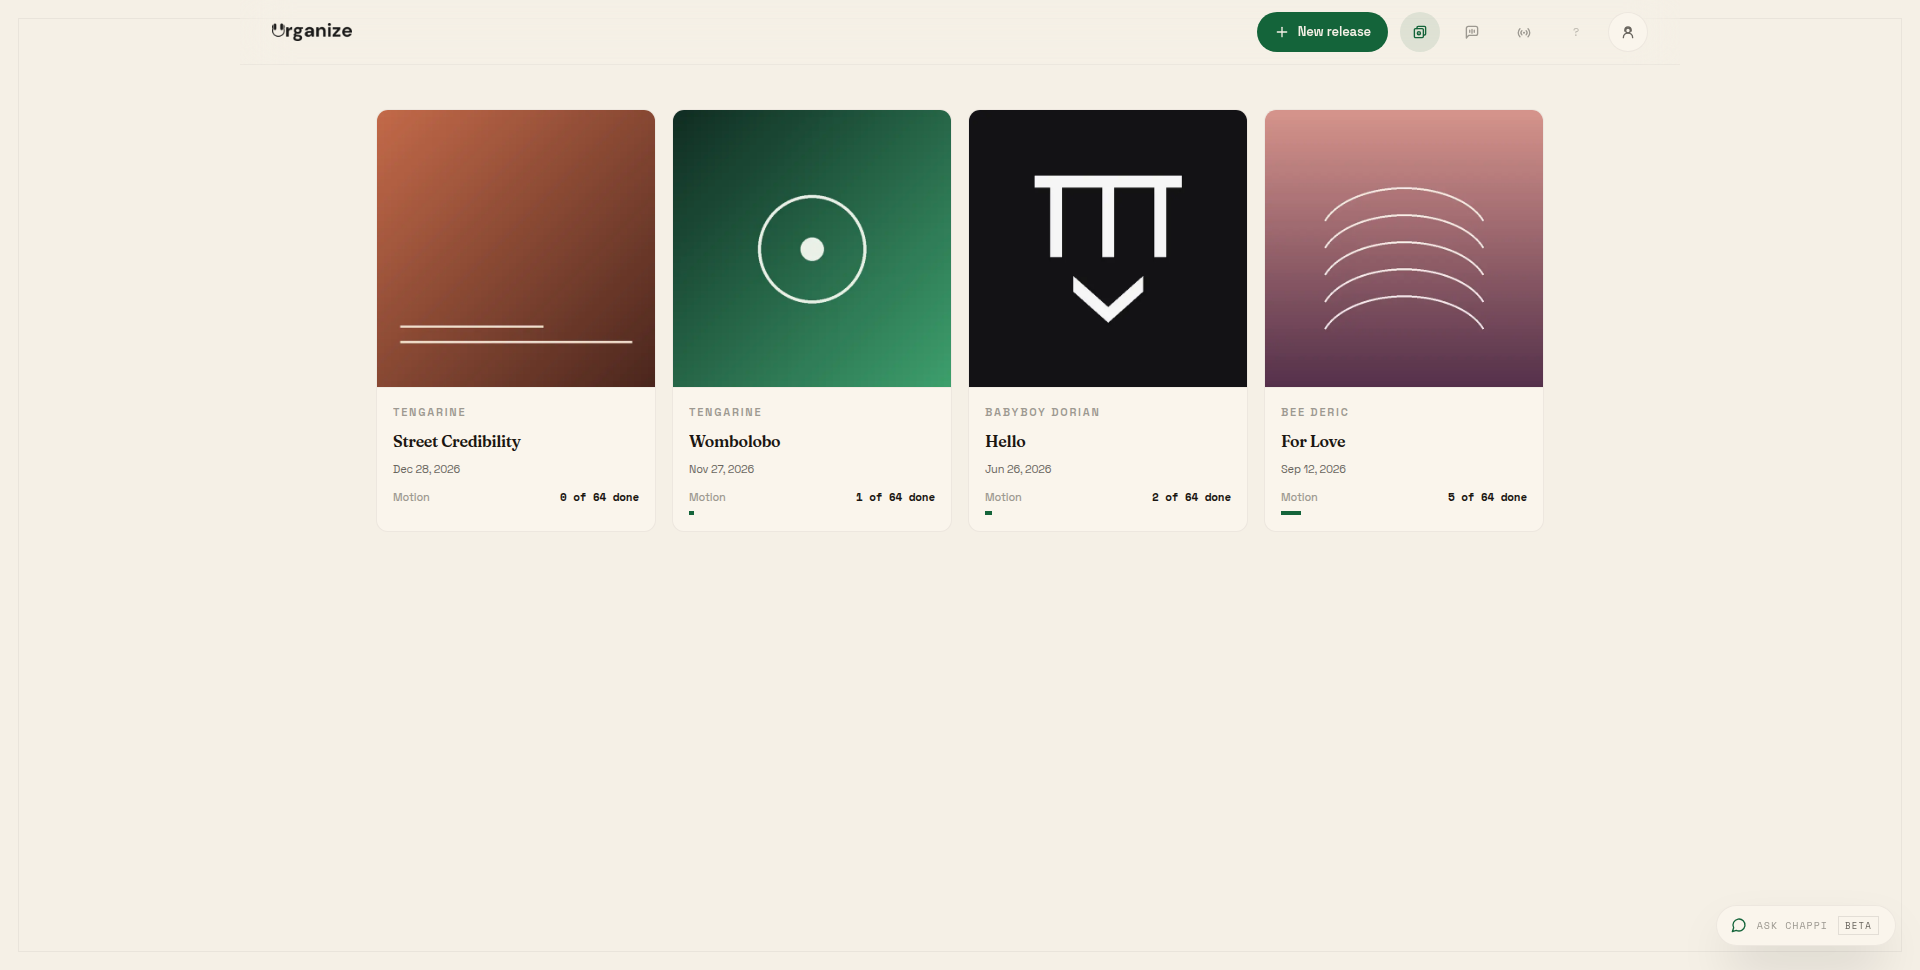
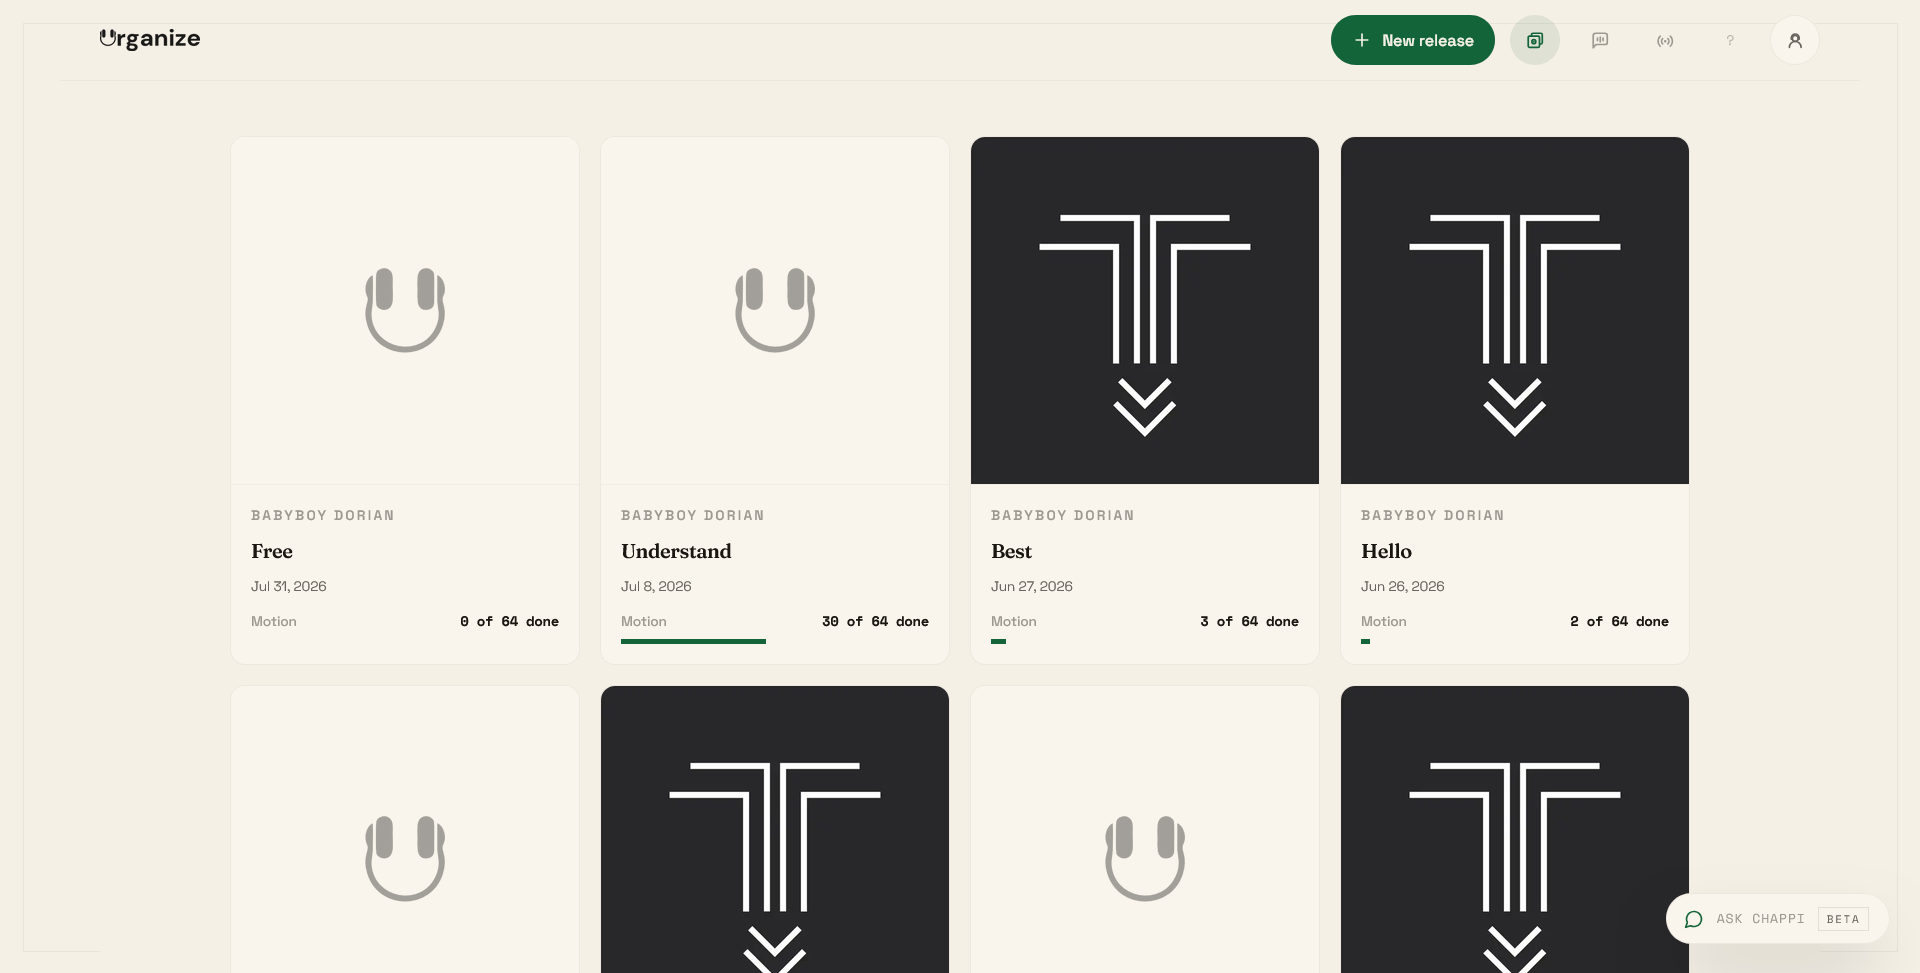
feat(homepage): make product screenshots follow the light/dark toggle (#205)

diff --git a/apps/homepage/app/features/page.tsx b/apps/homepage/app/features/page.tsx
@@ -1,6 +1,6 @@
 import type { Metadata } from "next";
-import Image from "next/image";
 import { ProofLine } from "../components/landing/ProofLine";
+import { ThemedProductShot } from "../components/landing/ThemedProductShot";
 import { ScrollReveal } from "../components/landing/ScrollReveal";
 import { SectionShell } from "../components/landing/SectionShell";
 import { WaitlistForm } from "../components/landing/WaitlistForm";
@@ -30,12 +30,15 @@ const features = [
       "Every task dated around your release day",
       "Edit, reorder, or delete anything. It's your plan",
     ],
-    // Real screenshot of the current release view (retaken 2026-07-25).
-    // Same house rule as the landing page: if the UI changes meaningfully,
-    // retake this — marketing imagery never lags the product.
+    // Real screenshot of the current release view (light and dark retaken
+    // together 2026-08-01, same release and scroll position in both). Same
+    // house rule as the landing page: if the UI changes meaningfully,
+    // retake BOTH the light and dark version — marketing imagery never
+    // lags the product.
     image: {
       src: "/images/product/workspace-tasks.png",
-      alt: "A release open in Urganize: the progress bar at 1 of 64, and the full 64-task rollout plan with owners and due dates on every row.",
+      darkSrc: "/images/product/workspace-tasks-dark.png",
+      alt: "A release open in Urganize: the progress bar at 1 of 64, the upcoming activities with owners and due dates on every row, and the Chappi assistant docked alongside them.",
     },
   },
   {
@@ -164,12 +167,12 @@ export default function FeaturesPage() {
 
               {"image" in feature ? (
                 <div className="mx-auto mt-14 max-w-[64rem] overflow-hidden rounded-xl border border-[color:var(--marketing-border)]">
-                  <Image
-                    src={feature.image.src}
+                  <ThemedProductShot
+                    light={feature.image.src}
+                    dark={feature.image.darkSrc}
                     alt={feature.image.alt}
                     width={1920}
                     height={970}
-                    className="h-auto w-full"
                     sizes="(min-width: 1088px) 1024px, 100vw"
                   />
                 </div>

diff --git a/apps/homepage/app/components/landing/sections/WorkspaceShotSection.tsx b/apps/homepage/app/components/landing/sections/WorkspaceShotSection.tsx
@@ -1,11 +1,13 @@
-import Image from "next/image";
+import { ThemedProductShot } from "../ThemedProductShot";
 import { ScrollReveal } from "../ScrollReveal";
 import { SectionShell } from "../SectionShell";
 import { wideContainerClass } from "./shared";
 
-// Real screenshot of the current workspace (retaken 2026-07-25 after the
-// catalog/focused-view redesign). If the UI changes meaningfully, retake
-// this — never let marketing imagery lag the product again.
+// Real screenshot of the current workspace (light and dark retaken together
+// 2026-08-01, same catalog and scroll position in both so the shot follows
+// the site's theme toggle cleanly). If the UI changes meaningfully, retake
+// BOTH the light and dark version — never let marketing imagery lag the
+// product again.
 export function WorkspaceShotSection() {
   return (
     <ScrollReveal>
@@ -17,12 +19,12 @@ export function WorkspaceShotSection() {
           Live since January 2026
         </p>
         <div className="overflow-hidden rounded-xl border border-[color:var(--marketing-border)]">
-          <Image
-            src="/images/product/workspace-releases.png"
-            alt="The Urganize catalog: four releases across three artists, each with cover art, a release date, and a progress bar for its 64-task plan."
+          <ThemedProductShot
+            light="/images/product/workspace-releases.png"
+            dark="/images/product/workspace-releases-dark.png"
+            alt="The Urganize catalog: a grid of release cards, each with cover art, a release date, and a progress bar counting finished activities against its 64-task plan. The top row runs from 0 of 64 done to 30 of 64."
             width={1920}
             height={970}
-            className="h-auto w-full"
             sizes="(min-width: 1440px) 1344px, (min-width: 1024px) calc(100vw - 80px), 100vw"
           />
         </div>

diff --git a/apps/homepage/app/components/landing/sections/TemplatePlanSection.tsx b/apps/homepage/app/components/landing/sections/TemplatePlanSection.tsx
@@ -1,4 +1,4 @@
-import Image from "next/image";
+import { ThemedProductShot } from "../ThemedProductShot";
 import { ScrollReveal } from "../ScrollReveal";
 import { SectionShell } from "../SectionShell";
 import { centeredHeadlineClass, mutedLeadClass } from "./shared";
@@ -61,13 +61,19 @@ export function TemplatePlanSection() {
           + 56 MORE, CREATED THE MOMENT YOU START A RELEASE
         </p>
 
+        {/* Real screenshot of a release built from the template above (light
+            and dark retaken together 2026-08-01, same release and scroll
+            position in both). It sits under the 64-task headline, so the
+            capture must show a template-built release: 1 of 64 with a due
+            date on every row, never a blank one. Retake BOTH themes if the
+            UI changes meaningfully. */}
         <div className="mx-auto mt-14 max-w-[58rem] overflow-hidden rounded-xl border border-[color:var(--marketing-border)]">
-          <Image
-            src="/images/product/workspace-tasks.png"
-            alt="A release open in Urganize: the progress bar, the full 64-task rollout plan with due dates on every row, and the rest of the roster one click away."
+          <ThemedProductShot
+            light="/images/product/workspace-tasks.png"
+            dark="/images/product/workspace-tasks-dark.png"
+            alt="A release open in Urganize: the progress bar at 1 of 64, the upcoming activities listed with a due date on every row, and the Chappi assistant docked alongside them."
             width={1920}
             height={970}
-            className="h-auto w-full"
             sizes="(min-width: 1024px) 928px, 100vw"
           />
         </div>

diff --git a/apps/homepage/app/components/landing/ThemedProductShot.tsx b/apps/homepage/app/components/landing/ThemedProductShot.tsx
@@ -1,0 +1,55 @@
+import Image from "next/image";
+
+// Product screenshots that follow the site's light/dark toggle (founder
+// request, 2026-07-31). Renders BOTH captures; CSS keyed off the
+// `data-marketing-theme` attribute (set in app/layout.tsx's pre-hydration
+// script and by ThemeToggle) shows exactly one — see the `.theme-shot-*`
+// rules in globals.css. Pure CSS on purpose: no "use client", no
+// hydration mismatch, and the swap follows the toggle with zero flash
+// because the same attribute the CSS reads is set before first paint.
+//
+// Same house rule as every other product screenshot on the site: both
+// captures must show the current app. If the UI changes meaningfully,
+// retake BOTH the light and dark version together — a stale one is worse
+// than none.
+interface ThemedProductShotProps {
+  light: string;
+  dark: string;
+  alt: string;
+  width: number;
+  height: number;
+  sizes: string;
+  className?: string;
+}
+
+export function ThemedProductShot({
+  light,
+  dark,
+  alt,
+  width,
+  height,
+  sizes,
+  className,
+}: ThemedProductShotProps) {
+  const shared = ["h-auto w-full", className].filter(Boolean).join(" ");
+  return (
+    <>
+      <Image
+        src={light}
+        alt={alt}
+        width={width}
+        height={height}
+        sizes={sizes}
+        className={`theme-shot-light ${shared}`}
+      />
+      <Image
+        src={dark}
+        alt={alt}
+        width={width}
+        height={height}
+        sizes={sizes}
+        className={`theme-shot-dark ${shared}`}
+      />
+    </>
+  );
+}

diff --git a/apps/homepage/app/globals.css b/apps/homepage/app/globals.css
@@ -139,6 +139,21 @@ html[data-marketing-theme="dark"] .marketing-wordmark {
   filter: none;
 }
 
+/* Theme-aware product screenshots (ThemedProductShot component): exactly
+   one of the light/dark pair renders. Default (attribute not yet set,
+   e.g. a no-JS crawler) shows the light capture. */
+.theme-shot-dark {
+  display: none;
+}
+
+html[data-marketing-theme="dark"] .theme-shot-dark {
+  display: block;
+}
+
+html[data-marketing-theme="dark"] .theme-shot-light {
+  display: none;
+}
+
 @layer base {
   body {
     background: var(--marketing-bg);

diff --git a/apps/homepage/app/brand/page.tsx b/apps/homepage/app/brand/page.tsx
@@ -81,8 +81,18 @@ const OTHER_ASSETS = [
     note: "The live workspace",
   },
   {
+    label: "Product screenshot: releases (dark)",
+    href: "/images/product/workspace-releases-dark.png",
+    note: "The live workspace",
+  },
+  {
     label: "Product screenshot: tasks",
     href: "/images/product/workspace-tasks.png",
+    note: "The live workspace",
+  },
+  {
+    label: "Product screenshot: tasks (dark)",
+    href: "/images/product/workspace-tasks-dark.png",
     note: "The live workspace",
   },
 ] as const;
